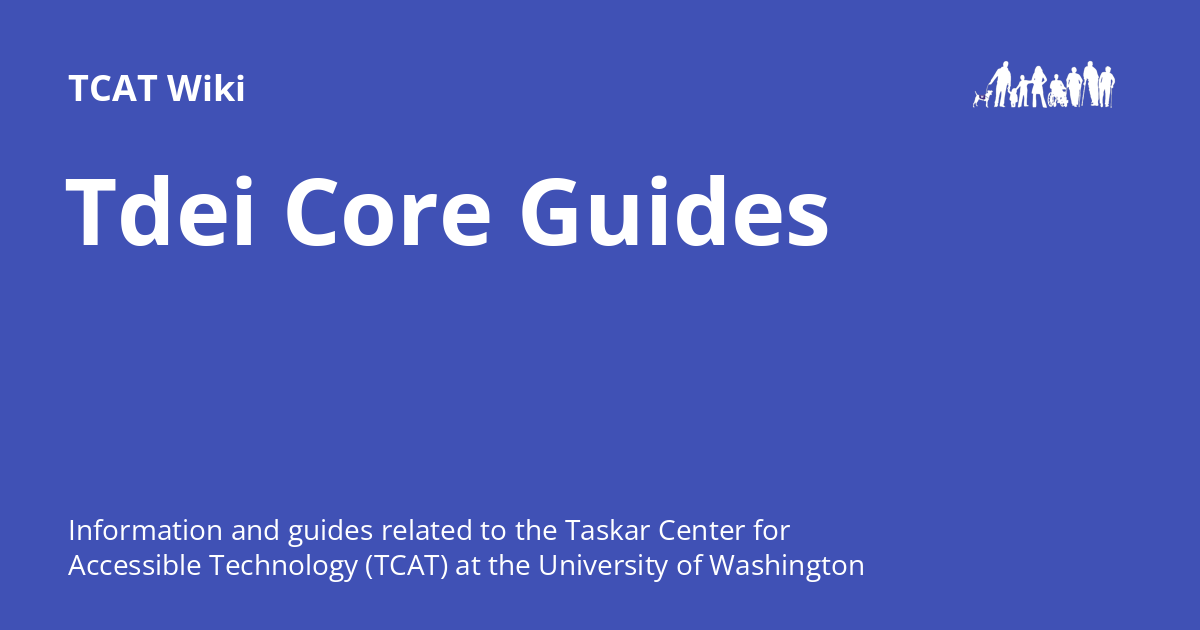
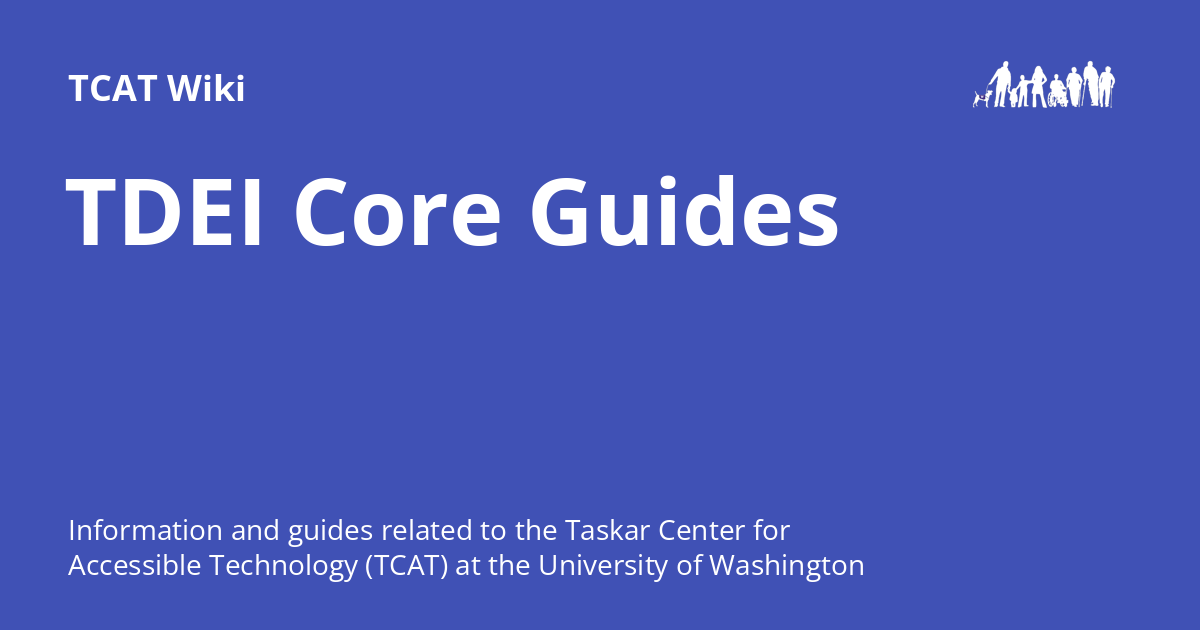
Deployed c6ae858 with MkDocs version: 1.6.1

Changed region(s): [[0.0925, 0.2714, 0.7092, 0.3921]]

diff --git a/tdei/tdei-core/guides/index.html b/tdei/tdei-core/guides/index.html
@@ -24,7 +24,7 @@
     
     
       
-        <title>Tdei Core Guides - TCAT Wiki</title>
+        <title>TDEI Core Guides - TCAT Wiki</title>
       
     
     
@@ -61,7 +61,7 @@
       
         <meta  property="og:type"  content="website" >
       
-        <meta  property="og:title"  content="Tdei Core Guides - TCAT Wiki" >
+        <meta  property="og:title"  content="TDEI Core Guides - TCAT Wiki" >
       
         <meta  property="og:description"  content="Information and guides related to the Taskar Center for Accessible Technology (TCAT) at the University of Washington" >
       
@@ -77,7 +77,7 @@
       
         <meta  name="twitter:card"  content="summary_large_image" >
       
-        <meta  name="twitter:title"  content="Tdei Core Guides - TCAT Wiki" >
+        <meta  name="twitter:title"  content="TDEI Core Guides - TCAT Wiki" >
       
         <meta  name="twitter:description"  content="Information and guides related to the Taskar Center for Accessible Technology (TCAT) at the University of Washington" >
       
@@ -137,7 +137,7 @@
         <div class="md-header__topic" data-md-component="header-topic">
           <span class="md-ellipsis">
             
-              Tdei Core Guides
+              TDEI Core Guides
             
           </span>
         </div>
@@ -2646,7 +2646,7 @@
   
   
   <span class="md-ellipsis">
-    TTDEI Account Registration
+    TDEI Account Registration
     
   </span>
   
@@ -2744,7 +2744,7 @@
   
 
 
-<h1 id="tdei-core-guides">Tdei Core Guides</h1>
+<h1 id="tdei-core-guides"><abbr title="Transportation Data Exchange Initiative">TDEI</abbr> Core Guides</h1>
 <p>Guides for <a href="../"><abbr title="Transportation Data Exchange Initiative">TDEI</abbr> Core</a>.</p>
 <p><em>For a list of all guides on the <abbr title="Taskar Center for Accessible Technology">TCAT</abbr> Wiki, refer to the <a href="../../../guides-list/">Guides List</a>.</em></p>
 <hr />
@@ -2772,7 +2772,7 @@
     <span class="md-icon" title="Last update">
       <svg xmlns="http://www.w3.org/2000/svg" viewBox="0 0 24 24"><path d="M21 13.1c-.1 0-.3.1-.4.2l-1 1 2.1 2.1 1-1c.2-.2.2-.6 0-.8l-1.3-1.3c-.1-.1-.2-.2-.4-.2m-1.9 1.8-6.1 6V23h2.1l6.1-6.1zM12.5 7v5.2l4 2.4-1 1L11 13V7zM11 21.9c-5.1-.5-9-4.8-9-9.9C2 6.5 6.5 2 12 2c5.3 0 9.6 4.1 10 9.3-.3-.1-.6-.2-1-.2s-.7.1-1 .2C19.6 7.2 16.2 4 12 4c-4.4 0-8 3.6-8 8 0 4.1 3.1 7.5 7.1 7.9l-.1.2z"/></svg>
     </span>
-    <span class="git-revision-date-localized-plugin git-revision-date-localized-plugin-date" title="September 30, 2025 15:03:40 PDT">September 30, 2025</span>
+    <span class="git-revision-date-localized-plugin git-revision-date-localized-plugin-date" title="September 30, 2025 15:34:12 PDT">September 30, 2025</span>
   </span>
 
     
@@ -2857,13 +2857,13 @@
         
         
           
-          <a href="tdei-account-registration/" class="md-footer__link md-footer__link--next" aria-label="Next: TTDEI Account Registration">
+          <a href="tdei-account-registration/" class="md-footer__link md-footer__link--next" aria-label="Next: TDEI Account Registration">
             <div class="md-footer__title">
               <span class="md-footer__direction">
                 Next
               </span>
               <div class="md-ellipsis">
-                TTDEI Account Registration
+                TDEI Account Registration
               </div>
             </div>
             <div class="md-footer__button md-icon">

diff --git a/guides-list/index.html b/guides-list/index.html
@@ -2633,7 +2633,7 @@
   
   
   <span class="md-ellipsis">
-    TTDEI Account Registration
+    TDEI Account Registration
     
   </span>
   
@@ -2942,17 +2942,17 @@
         <li class="md-nav__item">
   <a href="#tdei-core-guides" class="md-nav__link">
     <span class="md-ellipsis">
-      Tdei Core Guides
+      TDEI Core Guides
     </span>
   </a>
   
-    <nav class="md-nav" aria-label="Tdei Core Guides">
+    <nav class="md-nav" aria-label="TDEI Core Guides">
       <ul class="md-nav__list">
         
           <li class="md-nav__item">
-  <a href="#ttdei-account-registration" class="md-nav__link">
+  <a href="#tdei-account-registration" class="md-nav__link">
     <span class="md-ellipsis">
-      TTDEI Account Registration
+      TDEI Account Registration
     </span>
   </a>
   
@@ -3020,8 +3020,8 @@
 <p>This guide explains how to use the <a href="https://github.com/TaskarCenterAtUW/tdei-tools/blob/main/utilities/workspaces-josm.ps1">Workspaces <abbr title="Java OpenStreetMap Editor">JOSM</abbr> Settings Script</a> from <a href="https://github.com/TaskarCenterAtUW/tdei-tools/"><abbr title="Transportation Data Exchange Initiative">TDEI</abbr> Tools</a> to set up <abbr title="Java OpenStreetMap Editor">JOSM</abbr> to enable editing of Workspaces.</p>
 <h2 id="rapid-guides"><a href="../tdei/producers/workspaces/rapid/guides/">Rapid Guides</a></h2>
 <p><em>Coming soon!</em></p>
-<h2 id="tdei-core-guides"><a href="../tdei/tdei-core/guides/">Tdei Core Guides</a></h2>
-<h3 id="ttdei-account-registration"><a href="../tdei/tdei-core/guides/tdei-account-registration/">TTDEI Account Registration</a></h3>
+<h2 id="tdei-core-guides"><a href="../tdei/tdei-core/guides/"><abbr title="Transportation Data Exchange Initiative">TDEI</abbr> Core Guides</a></h2>
+<h3 id="tdei-account-registration"><a href="../tdei/tdei-core/guides/tdei-account-registration/"><abbr title="Transportation Data Exchange Initiative">TDEI</abbr> Account Registration</a></h3>
 <p>This guide explains how to register for a <abbr title="Transportation Data Exchange Initiative">TDEI</abbr> account using the <abbr title="Transportation Data Exchange Initiative">TDEI</abbr> Portal.</p>
 
 
@@ -3045,7 +3045,7 @@
     <span class="md-icon" title="Last update">
       <svg xmlns="http://www.w3.org/2000/svg" viewBox="0 0 24 24"><path d="M21 13.1c-.1 0-.3.1-.4.2l-1 1 2.1 2.1 1-1c.2-.2.2-.6 0-.8l-1.3-1.3c-.1-.1-.2-.2-.4-.2m-1.9 1.8-6.1 6V23h2.1l6.1-6.1zM12.5 7v5.2l4 2.4-1 1L11 13V7zM11 21.9c-5.1-.5-9-4.8-9-9.9C2 6.5 6.5 2 12 2c5.3 0 9.6 4.1 10 9.3-.3-.1-.6-.2-1-.2s-.7.1-1 .2C19.6 7.2 16.2 4 12 4c-4.4 0-8 3.6-8 8 0 4.1 3.1 7.5 7.1 7.9l-.1.2z"/></svg>
     </span>
-    <span class="git-revision-date-localized-plugin git-revision-date-localized-plugin-date" title="September 30, 2025 15:02:46 PDT">September 30, 2025</span>
+    <span class="git-revision-date-localized-plugin git-revision-date-localized-plugin-date" title="September 30, 2025 15:34:12 PDT">September 30, 2025</span>
   </span>
 
     

diff --git a/tdei/tdei-core/guides/tdei-account-registration/index.html b/tdei/tdei-core/guides/tdei-account-registration/index.html
@@ -2653,7 +2653,7 @@
   
   
   <span class="md-ellipsis">
-    TTDEI Account Registration
+    TDEI Account Registration
     
   </span>
   
@@ -2830,7 +2830,7 @@
       <nav class="md-footer__inner md-grid" aria-label="Footer" >
         
           
-          <a href="../" class="md-footer__link md-footer__link--prev" aria-label="Previous: Tdei Core Guides">
+          <a href="../" class="md-footer__link md-footer__link--prev" aria-label="Previous: TDEI Core Guides">
             <div class="md-footer__button md-icon">
               
               <svg xmlns="http://www.w3.org/2000/svg" viewBox="0 0 24 24"><path d="M20 11v2H8l5.5 5.5-1.42 1.42L4.16 12l7.92-7.92L13.5 5.5 8 11z"/></svg>
@@ -2840,7 +2840,7 @@
                 Previous
               </span>
               <div class="md-ellipsis">
-                Tdei Core Guides
+                TDEI Core Guides
               </div>
             </div>
           </a>

diff --git a/tdei/tdei-core/index.html b/tdei/tdei-core/index.html
@@ -2644,7 +2644,7 @@
   
   
   <span class="md-ellipsis">
-    TTDEI Account Registration
+    TDEI Account Registration
     
   </span>
   
@@ -2824,13 +2824,13 @@
         
         
           
-          <a href="guides/" class="md-footer__link md-footer__link--next" aria-label="Next: Tdei Core Guides">
+          <a href="guides/" class="md-footer__link md-footer__link--next" aria-label="Next: TDEI Core Guides">
             <div class="md-footer__title">
               <span class="md-footer__direction">
                 Next
               </span>
               <div class="md-ellipsis">
-                Tdei Core Guides
+                TDEI Core Guides
               </div>
             </div>
             <div class="md-footer__button md-icon">

diff --git a/404.html b/404.html
@@ -2589,7 +2589,7 @@
   
   
   <span class="md-ellipsis">
-    TTDEI Account Registration
+    TDEI Account Registration
     
   </span>
   

diff --git a/about/guides/CONTRIBUTING/index.html b/about/guides/CONTRIBUTING/index.html
@@ -2731,7 +2731,7 @@
   
   
   <span class="md-ellipsis">
-    TTDEI Account Registration
+    TDEI Account Registration
     
   </span>
   

diff --git a/about/guides/index.html b/about/guides/index.html
@@ -2638,7 +2638,7 @@
   
   
   <span class="md-ellipsis">
-    TTDEI Account Registration
+    TDEI Account Registration
     
   </span>
   

diff --git a/about/index.html b/about/index.html
@@ -2636,7 +2636,7 @@
   
   
   <span class="md-ellipsis">
-    TTDEI Account Registration
+    TDEI Account Registration
     
   </span>
   

diff --git a/index.html b/index.html
@@ -2636,7 +2636,7 @@
   
   
   <span class="md-ellipsis">
-    TTDEI Account Registration
+    TDEI Account Registration
     
   </span>
   

diff --git a/opensidewalks/guides/core-edges-in-osw/index.html b/opensidewalks/guides/core-edges-in-osw/index.html
@@ -2911,7 +2911,7 @@
   
   
   <span class="md-ellipsis">
-    TTDEI Account Registration
+    TDEI Account Registration
     
   </span>
   

diff --git a/opensidewalks/guides/custom-points-in-osw/index.html b/opensidewalks/guides/custom-points-in-osw/index.html
@@ -2911,7 +2911,7 @@
   
   
   <span class="md-ellipsis">
-    TTDEI Account Registration
+    TDEI Account Registration
     
   </span>
   

diff --git a/opensidewalks/guides/index.html b/opensidewalks/guides/index.html
@@ -2644,7 +2644,7 @@
   
   
   <span class="md-ellipsis">
-    TTDEI Account Registration
+    TDEI Account Registration
     
   </span>
   
